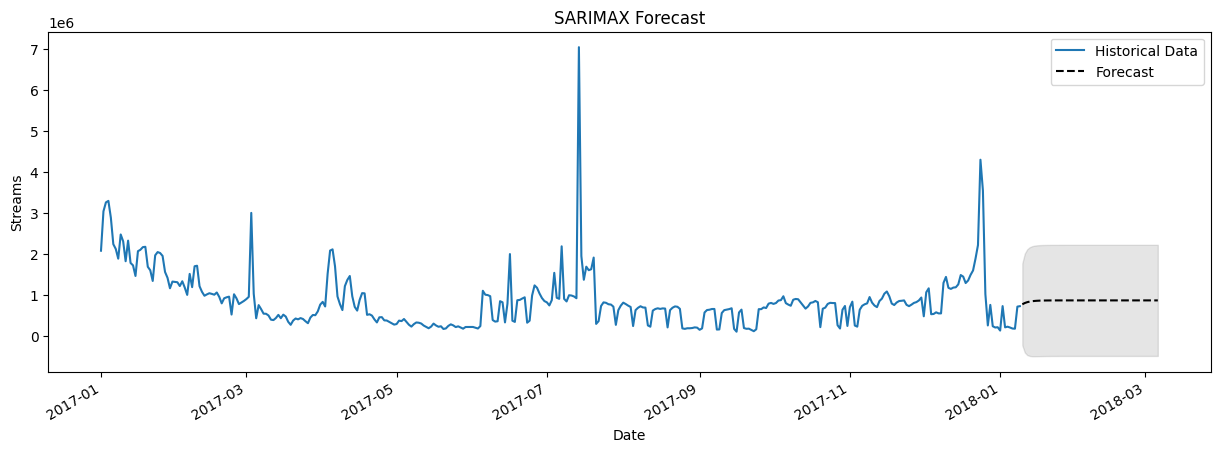
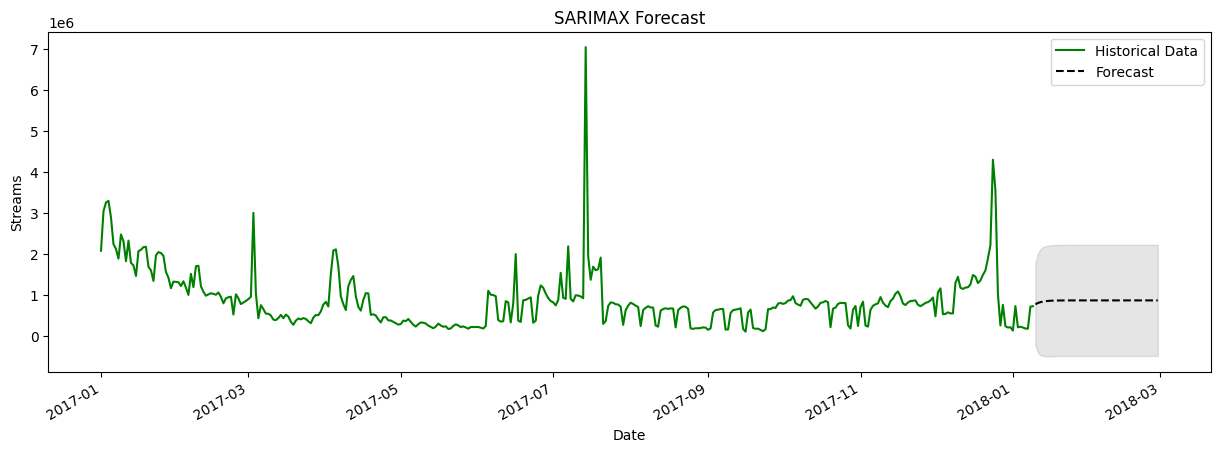
sarimax

diff --git a/SARIMAX.py b/SARIMAX.py
@@ -1,6 +1,7 @@
 import pandas as pd
 import matplotlib.pyplot as plt
 import statsmodels.api as sm
+from tabulate import tabulate
 
 file = 'dataset/coldplay_grouped_by.csv'
 coldplay = pd.read_csv(file)
@@ -17,27 +18,23 @@ res = mod.fit(disp=0)
 
 print(res.summary())
 
-# The default is to get a one-step-ahead forecast
-forecast_result = res.forecast()
-print(f"Forecast Result: {forecast_result}\n")
+# Forecasting with five-step prevision
+fcast_result = res.get_forecast(steps=5)
+fcast_result_summary = fcast_result.summary_frame()
 
-fcast_res1 = res.get_forecast()
-# Most results are collected in the `summary_frame` attribute.
-# Here we specify that we want a confidence level of 90%
-print("Summary Frame with 90% Confidence Level:")
-print(fcast_res1.summary_frame(alpha=0.1))
+fcast_result_summary.index.name = 'Step'
 
-fcast_res2 = res.forecast(steps=2)
-print(f"\nForecast Result for the Next 2 Steps: \n{fcast_res2}")
+print("Summary Frame for Forecast Result (Next 5 Steps):")
+print(tabulate(fcast_result_summary, headers='keys', tablefmt='pretty'))
 
 # Plot result
 fig, ax = plt.subplots(figsize=(15, 5))
 
 # Plot the data
-streams.plot(ax=ax, label='Historical Data')
+streams.plot(ax=ax, label='Historical Data', color='g')
 
 # Construct the forecast
-forecast_steps = 56
+forecast_steps = 50
 fcast = res.get_forecast(steps=forecast_steps).summary_frame()
 forecast_index = pd.date_range(start=streams.index[-1] + pd.DateOffset(1), periods=forecast_steps, freq='D')
 fcast.index = forecast_index
